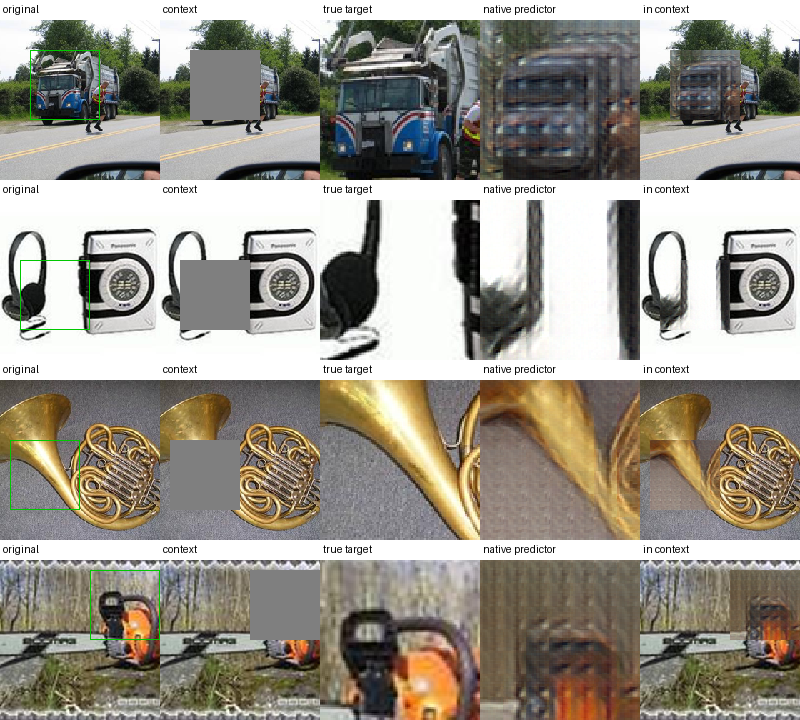
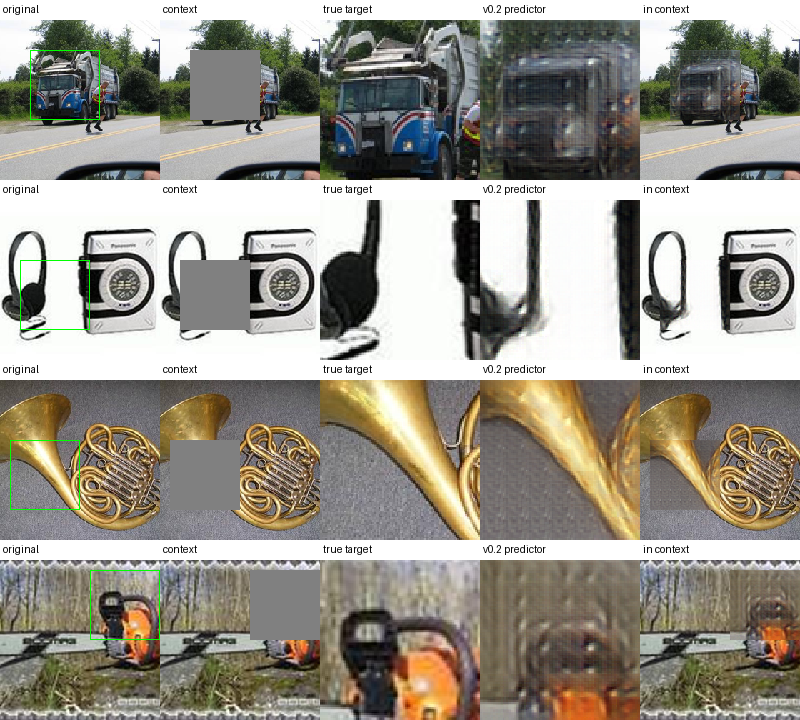
Publish the scaled mixed-EMA I-JEPA predictor decoder
Record both completed 15000-step Mac experiments, select EMA step 10750, document validation limits and controls, and pin v0.2 downloads while preserving the v0.1 initializer and original data manifest.

diff --git a/ijepa_decoder/cli.py b/ijepa_decoder/cli.py
@@ -21,6 +21,10 @@ PACKAGE = Path(__file__).parent
 
 def download(args):
     manifest = json.loads((PACKAGE / "pretrained.json").read_text())
+    if args.version is not None and args.version != manifest["version"]:
+        manifest = json.loads((PACKAGE / f"pretrained-{args.version}.json").read_text())
+    if args.version is not None and args.version != manifest["version"]:
+        raise ValueError("Requested release differs from the pinned download manifest.")
     for name, asset in manifest["files"].items():
         path = download_file(asset["url"], Path(args.out_dir) / name, asset["sha256"])
         print(f"Verified {path}", flush=True)
@@ -151,6 +155,8 @@ def parser():
     commands = result.add_subparsers(dest="command", required=True)
     command = commands.add_parser("download", parents=[common])
     command.add_argument("--out-dir", default="artifacts/checkpoints/native")
+    command.add_argument("--version", choices=("v0.1.0", "v0.2.0"),
+                         help="Pinned model release; defaults to the latest packaged release.")
     commands.add_parser("assets", parents=[common])
     command = commands.add_parser("decode", parents=[common])
     command.add_argument("--image", required=True)
@@ -197,7 +203,7 @@ def parser():
     command = commands.add_parser("compare", parents=[common])
     command.add_argument("--cache", default="artifacts/scaled/features/val.pt")
     command.add_argument("--decoder", required=True)
-    command.add_argument("--baseline", default="artifacts/checkpoints/native")
+    command.add_argument("--baseline", default="artifacts/checkpoints/v0.1.0")
     command.add_argument("--batch-size", type=int, default=8)
     command.add_argument("--num-images", type=int, default=8)
     command.add_argument("--output", default="artifacts/scaled/comparison.png")

diff --git a/tests/test_decoder.py b/tests/test_decoder.py
@@ -129,6 +129,15 @@ class DecoderTests(unittest.TestCase):
             with self.assertRaisesRegex(ValueError, "wrong checksum"):
                 download_file(source.as_uri(), root / "invalid", hashlib.sha256(b"other").hexdigest())
 
+    def test_download_selects_latest_or_pinned_initializer_release(self):
+        for arguments, version in (([], "v0.2.0"), (["--version", "v0.1.0"], "v0.1.0")):
+            with self.subTest(version=version):
+                args = cli.parser().parse_args(["download", *arguments])
+                with patch.object(cli, "download_file", side_effect=lambda url, path, checksum: path) as downloads:
+                    cli.download(args)
+                self.assertEqual(downloads.call_count, 3)
+                self.assertTrue(all(f"/{version}/" in call.args[0] for call in downloads.call_args_list))
+
     def test_image_inference_never_uses_hidden_pixels_or_a_target_encoder(self):
         def predictor(context, context_indices, target_indices):
             return fake_predictor(context, context_indices, target_indices).repeat(1, 1, 320)

diff --git a/README.md b/README.md
@@ -14,19 +14,28 @@ The true target is a comparison, not an input to prediction.
 
 ## Pretrained Decoder
 
-**[Download v0.1.0](https://github.com/yaskovdev/ijepa-decoder/releases/tag/v0.1.0)**
+**[Download v0.2.0](https://github.com/yaskovdev/ijepa-decoder/releases/tag/v0.2.0)**
 or use `ijepa-decoder download` below. The release contains
-[105 MB safetensors weights](https://github.com/yaskovdev/ijepa-decoder/releases/download/v0.1.0/model.safetensors),
-[config](https://github.com/yaskovdev/ijepa-decoder/releases/download/v0.1.0/config.json),
+[105 MB safetensors weights](https://github.com/yaskovdev/ijepa-decoder/releases/download/v0.2.0/model.safetensors),
+[config](https://github.com/yaskovdev/ijepa-decoder/releases/download/v0.2.0/config.json),
 the model license, and
-[SHA256SUMS](https://github.com/yaskovdev/ijepa-decoder/releases/download/v0.1.0/SHA256SUMS).
+[SHA256SUMS](https://github.com/yaskovdev/ijepa-decoder/releases/download/v0.2.0/SHA256SUMS).
 Checksums are verified by the downloader. Weights are release assets, not git blobs.
 
 The decoder has **26.3 million parameters**, is initialized from MAE-base, and
 maps 49 unpooled I-JEPA ViT-H/14 predictor tokens plus their native positions
-to a **98x98 RGB crop**. The released mixed-training checkpoint was selected
-at step **400**, not the final step 800 and not a target-encoder oracle.
-On all 64 validation photographs, RGB MAE is **0.128089**, LPIPS **0.335584**.
+to a **98x98 RGB crop**. The released checkpoint is **mixed-training EMA at step
+10,750**, selected from a 15,000-step run on 9,469 photographs with four masks each.
+It is not a target-encoder oracle.
+
+| Predictor evaluation (lower is better) | v0.1 RGB MAE | v0.2 RGB MAE | v0.1 LPIPS | v0.2 LPIPS |
+|---|---:|---:|---:|---:|
+| All 512 validation photographs | 0.131718 | **0.120092** | 0.324860 | **0.275880** |
+| Original 64 validation photographs | 0.128089 | **0.118100** | 0.335584 | **0.286794** |
+
+LPIPS improved by **15.1%** on the expanded validation set. These are validation
+results, not an independent test or a guarantee that every example improves.
+The illustrated photographs are the same four shown for v0.1.
 [Model card, training details, limitations, and licensing](MODEL_CARD.md).
 
 This is **not an official Meta decoder**, general-purpose inpainting, or the
@@ -67,60 +76,51 @@ device when needed. Inference loads the frozen context encoder and predictor,
 but **no target encoder**. It also saves the native RGB crop and a 224x224
 composite beside the comparison grid.
 
+If v0.1 already occupies `artifacts/checkpoints/native`, download v0.2 into a
+new directory with `ijepa-decoder download --out-dir artifacts/checkpoints/native-v0.2`
+and pass `--decoder artifacts/checkpoints/native-v0.2` to inference. The
+[v0.1.0 release](https://github.com/yaskovdev/ijepa-decoder/releases/tag/v0.1.0)
+is preserved and can still be downloaded explicitly with `--version v0.1.0`.
+
 ## Reproduce Training
 
-The shipped [manifest](ijepa_decoder/manifest.json) records the exact 2,048
-training and 64 validation photographs, preprocessed-pixel hashes, and masks
-used by this model. It contains no dataset images. Preparation rejects changed
-pixels or train/validation overlap and verifies hidden-pixel isolation.
+The shipped [reference manifest](ijepa_decoder/manifest.json) preserves the
+original v0.1 photographs and masks. The v0.2 generator expands it deterministically
+to **9,469 training photographs, 37,876 masks, and 512 validation photographs**.
+The [exact expanded manifest](https://github.com/yaskovdev/ijepa-decoder/releases/download/v0.2.0/manifest.json)
+is also a release asset. Neither manifest contains dataset images. Preparation
+rejects changed pixels or train/validation overlap and verifies hidden-pixel isolation.
 
 ```shell
 pip install -c constraints.txt -e '.[train]'
 mkdir -p artifacts/data
 curl --fail --location --continue-at - --output artifacts/data/imagenette2-320.tgz https://s3.amazonaws.com/fast-ai-imageclas/imagenette2-320.tgz
 tar -xzf artifacts/data/imagenette2-320.tgz -C artifacts/data
-ijepa-decoder prepare
 ijepa-decoder assets
-ijepa-decoder train --feature-source target --steps 1000 --out-dir artifacts/target_1000
-ijepa-decoder train --feature-source mixed --steps 800 --learning-rate 5e-5 --init artifacts/target_1000/best.pt --out-dir artifacts/mixed_800
-ijepa-decoder evaluate
+ijepa-decoder download --version v0.1.0 --out-dir artifacts/checkpoints/v0.1.0
+ijepa-decoder manifest --output artifacts/scaled/manifest.json
+ijepa-decoder prepare --manifest artifacts/scaled/manifest.json --out-dir artifacts/scaled/features --batch-size 8 --shard-size 128
+ijepa-decoder train --feature-source mixed --cache-dir artifacts/scaled/features \
+  --init artifacts/checkpoints/v0.1.0 --out-dir artifacts/scaled/mixed \
+  --steps 15000 --batch-size 16 --learning-rate 5e-5 --schedule cosine \
+  --min-learning-rate 1e-6 --ema-decay 0.999 --eval-every 250
+ijepa-decoder evaluate --cache artifacts/scaled/features/val.pt
+ijepa-decoder compare --decoder artifacts/scaled/mixed/best.pt --output artifacts/scaled/comparison.png
 ```
 
 `evaluate` defaults to the released model; use
-`--decoder artifacts/mixed_800/best.pt` to evaluate a retrained checkpoint.
+`--decoder artifacts/scaled/mixed/best.pt` to evaluate a retrained checkpoint.
 Training uses original native RGB crops, L1 + 0.5 frozen AlexNet LPIPS,
 and fixed ImageNet normalization, not unknown hidden-patch statistics.
-The target stage is only a training oracle; mixed batches retain reconstruction
-ability while adapting to predictor tokens. All I-JEPA models remain frozen.
+Mixed batches alternate target/predictor examples 50/50; selection always uses
+predictor validation. All I-JEPA models remain frozen.
 
-The measured training loops took 118 + 95 seconds on an M3 Max **after feature
-caching**, excluding downloads and frozen I-JEPA extraction. Exact bitwise
+The mixed-training loop took **3,452 seconds on an M3 Max after feature caching**;
+the comparable predictor-only run took 3,374 seconds. Frozen feature extraction
+took approximately 47 minutes before consolidation. Exact bitwise
 retraining is not promised across hardware or package versions. Use new output
 directories for repeat experiments; `--init` loads weights, not optimizer state.
 Datasets, features, weights, and generated results stay under ignored `artifacts/`.
-
-### Scaled Training (Experimental)
-
-This opt-in experiment keeps the released `v0.1.0` model unchanged. It uses all
-9,469 distinct Imagenette training photographs, four masks per photograph,
-and 512 fixed validation photographs. The original 64 validation examples and
-existing training masks are preserved. Expanded training is not yet a claim of
-better reconstruction quality.
-
-After the setup above:
-
-```shell
-ijepa-decoder manifest --output artifacts/scaled/manifest.json
-ijepa-decoder prepare --manifest artifacts/scaled/manifest.json --out-dir artifacts/scaled/features --batch-size 8 --shard-size 128
-for source in predictor mixed; do
-  ijepa-decoder train --feature-source "$source" --cache-dir artifacts/scaled/features \
-    --init artifacts/checkpoints/native --out-dir "artifacts/scaled/$source" \
-    --steps 15000 --batch-size 16 --learning-rate 5e-5 --schedule cosine \
-    --min-learning-rate 1e-6 --ema-decay 0.999 --eval-every 250
-done
-ijepa-decoder compare --decoder artifacts/scaled/predictor/best.pt --output artifacts/scaled/predictor_comparison.png
-ijepa-decoder compare --decoder artifacts/scaled/mixed/best.pt --output artifacts/scaled/mixed_comparison.png
-```
 
 Preparation processes bounded shards, reuses each target-encoder pass across
 its photograph's masks, and consolidates memory-mappable caches after freeing
@@ -133,12 +133,32 @@ contains the selected decoder; `last.pt` also stores optimizer, cosine schedule,
 EMA, and random states. Resume in the same output directory with the original
 arguments, replacing `--init ...` with `--resume .../last.pt`. `--stop-after`
 pauses at an absolute step without shortening the full `--steps` schedule.
-Constant learning rate and no EMA remain the defaults for the published recipe.
+Constant learning rate and no EMA remain the CLI defaults for v0.1 reproduction;
+the v0.2 commands above enable cosine decay and EMA explicitly.
 Comparisons use identical predictor features for both models, include wrong-photo
 and shuffled-token controls, and report paired bootstrap intervals grouped by
-original photograph. The target-encoder control is explicitly separate from the
-predictor-only visualization. Use the original small validation cache with
-`compare --cache artifacts/features/val.pt` for the fixed 64-image comparison.
+original photograph. These intervals do not account for checkpoint selection on
+the same validation set. The target-encoder control is explicitly separate from
+the predictor-only visualization.
+
+To reproduce the predictor-only comparison, repeat the 15,000-step command with
+`--feature-source predictor --out-dir artifacts/scaled/predictor`. It uses the
+same initializer, data, seed, schedule, and EMA settings; its best checkpoint was
+EMA step 6,250. Mixed training performed slightly better.
+
+To reproduce the v0.1 initializer from the MAE prior, use `ijepa-decoder prepare`
+with the packaged reference manifest, then train 1,000 target-token steps followed
+by 800 mixed steps at learning rate 5e-5:
+
+```shell
+ijepa-decoder prepare
+ijepa-decoder train --feature-source target --steps 1000 --out-dir artifacts/target_1000
+ijepa-decoder train --feature-source mixed --steps 800 --learning-rate 5e-5 --init artifacts/target_1000/best.pt --out-dir artifacts/mixed_800
+```
+
+Predictor validation selected mixed step 400. Its original training loops took
+118 + 95 seconds after feature caching. Use `compare --cache artifacts/features/val.pt`
+for the fixed 64-image comparison against the preserved v0.1 release.
 
 ## Tests and Attribution
 

diff --git a/MODEL_CARD.md b/MODEL_CARD.md
@@ -1,8 +1,9 @@
-# Native I-JEPA Predictor Decoder v0.1.0
+# Native I-JEPA Predictor Decoder v0.2.0
 
 An **unofficial research model**, not a Meta release or a reproduction of its
 unpublished RCDM decoder. The released model is the best **predictor** checkpoint,
-selected at mixed-training step 400, not a target-encoder oracle.
+selected at mixed-training **EMA step 10,750**, not a target-encoder oracle.
+The v0.1.0 model remains available in its original release.
 
 ## Model
 
@@ -24,23 +25,66 @@ Inference loads no target encoder and uses no DINO, RAE, or diffusion model.
 
 ## Training and Evaluation
 
-The shipped `ijepa_decoder/manifest.json` identifies the exact 2,048 training
-and 64 validation Imagenette 320 photographs, preprocessed-pixel hashes, and
-patch-aligned masks. Hashes refer to 224x224 RGB after the included
-OpenAI/RCDM center-crop preprocessing, not to the JPEG file bytes.
+The v0.2 manifest contains **9,469 distinct Imagenette 320 training photographs,
+four masks each (37,876 examples), and 512 validation photographs**. It is
+generated deterministically from the packaged v0.1 reference manifest; the
+original 2,048 training masks and 64 validation photographs/masks are retained.
+Training and validation have no preprocessed-pixel overlap. Hashes refer to
+224x224 RGB after OpenAI/RCDM center-crop preprocessing, not JPEG file bytes.
 
-Training uses native original RGB crops and L1 + 0.5 AlexNet LPIPS. First,
-1,000 target-token steps initialize a reconstruction oracle. Then 800 mixed
-steps alternate target/predictor examples within each batch; predictor
-validation selects step 400. Batch size is 8, seed 0, AdamW weight decay 0.01;
-learning rates are 1e-4 initially (5x for the new projection) and 5e-5 for
-mixed continuation.
+The exact expanded manifest is included in the v0.2 release. Its SHA256 is
[1 lines of base64/hex data omitted]
+Newly extracted predictor and target tokens for the original 64 photographs
+were bit-identical to the v0.1 cache.
 
-On all 64 validation photographs, the released predictor model has RGB MAE
-**0.128089** and LPIPS **0.335584**. The measured training loops took 118 and
-95 seconds on an M3 Max with already-cached features, excluding downloads and
-I-JEPA feature extraction. Exact bitwise retraining is not promised across
-different devices, package versions, or numerical kernels.
+Both experiments start from the released v0.1 mixed-step-400 decoder, with a
+new optimizer. Each runs 15,000 steps: batch size 16, seed 0, AdamW weight decay
+0.01, learning rate 5e-5 with cosine decay to 1e-6, EMA decay 0.999, and
+predictor validation every 250 steps. Loss is raw RGB L1 + 0.5 frozen AlexNet
+LPIPS. Mixed batches alternate target/predictor examples 50/50. Raw and EMA
+weights are compared using the same `raw_l1 + 0.5 * LPIPS` validation criterion.
+
+| Predictor evaluation on all 512 validation photographs | Selected step | RGB MAE | LPIPS |
+|---|---:|---:|---:|
+| v0.1 released initializer | 400 | 0.131718 | 0.324860 |
+| Expanded predictor-only, EMA | 6,250 | 0.121533 | 0.280126 |
+| **Expanded mixed, EMA (v0.2 release)** | **10,750** | **0.120092** | **0.275880** |
+
+On the original 64 validation photographs, v0.2 predictor RGB MAE is
+**0.118100** and LPIPS **0.286794**, versus v0.1 **0.128089 / 0.335584**.
+The README shows the same four photographs selected for the earlier v0.1
+illustration, not new examples selected after expanded training.
+
+Paired bootstrap intervals use 2,000 resamples grouped by original photograph.
+On 512 photographs, new-minus-v0.1 LPIPS is -0.048980 (95% interval
+[-0.051724, -0.046105]); RGB MAE difference is -0.011626 (95% interval
+[-0.013154, -0.010198]). These are **descriptive validation intervals**, not
+independent-test confidence intervals: checkpoint selection uses this same
+validation set, and the original 64 photographs are a subset of it.
+
+Conditioning controls on the same 512 photographs:
+
+| Input to v0.2 decoder | RGB MAE | LPIPS |
+|---|---:|---:|
+| Correct predictor tokens | 0.120092 | 0.275880 |
+| Wrong-photo predictor tokens | 0.303337 | 0.650313 |
+| Shuffled predictor tokens | 0.201301 | 0.492012 |
+| Target encoder, **hidden-RGB oracle** | 0.086206 | 0.146810 |
+
+Wrong-photo tokens may also come from a different mask position, so this is
+not a geometry-matched semantic ablation. The oracle is not used for ordinary
+prediction. Pasting predictions into context preserves visible uint8 pixels
+exactly.
+
+Training loops took 3,374 seconds (predictor-only) and 3,452 seconds (mixed)
+on an Apple M3 Max with 36 GiB unified memory, including periodic validation
+and checkpointing after feature caching. Frozen feature extraction logged
+2,806 seconds before consolidation. Downloads and initialization are excluded.
+Exact bitwise retraining is not promised across devices, versions, or kernels.
+
+The v0.1 initializer was itself MAE-initialized: 1,000 target-token steps,
+then 800 mixed steps with predictor validation selecting step 400. Its complete
+recipe remains in the README and the preserved v0.1 release.
 
 Feature extraction uses float32. Both image inference and cached evaluation
 quantize predictor tokens to float16, then convert them to float32 for the
